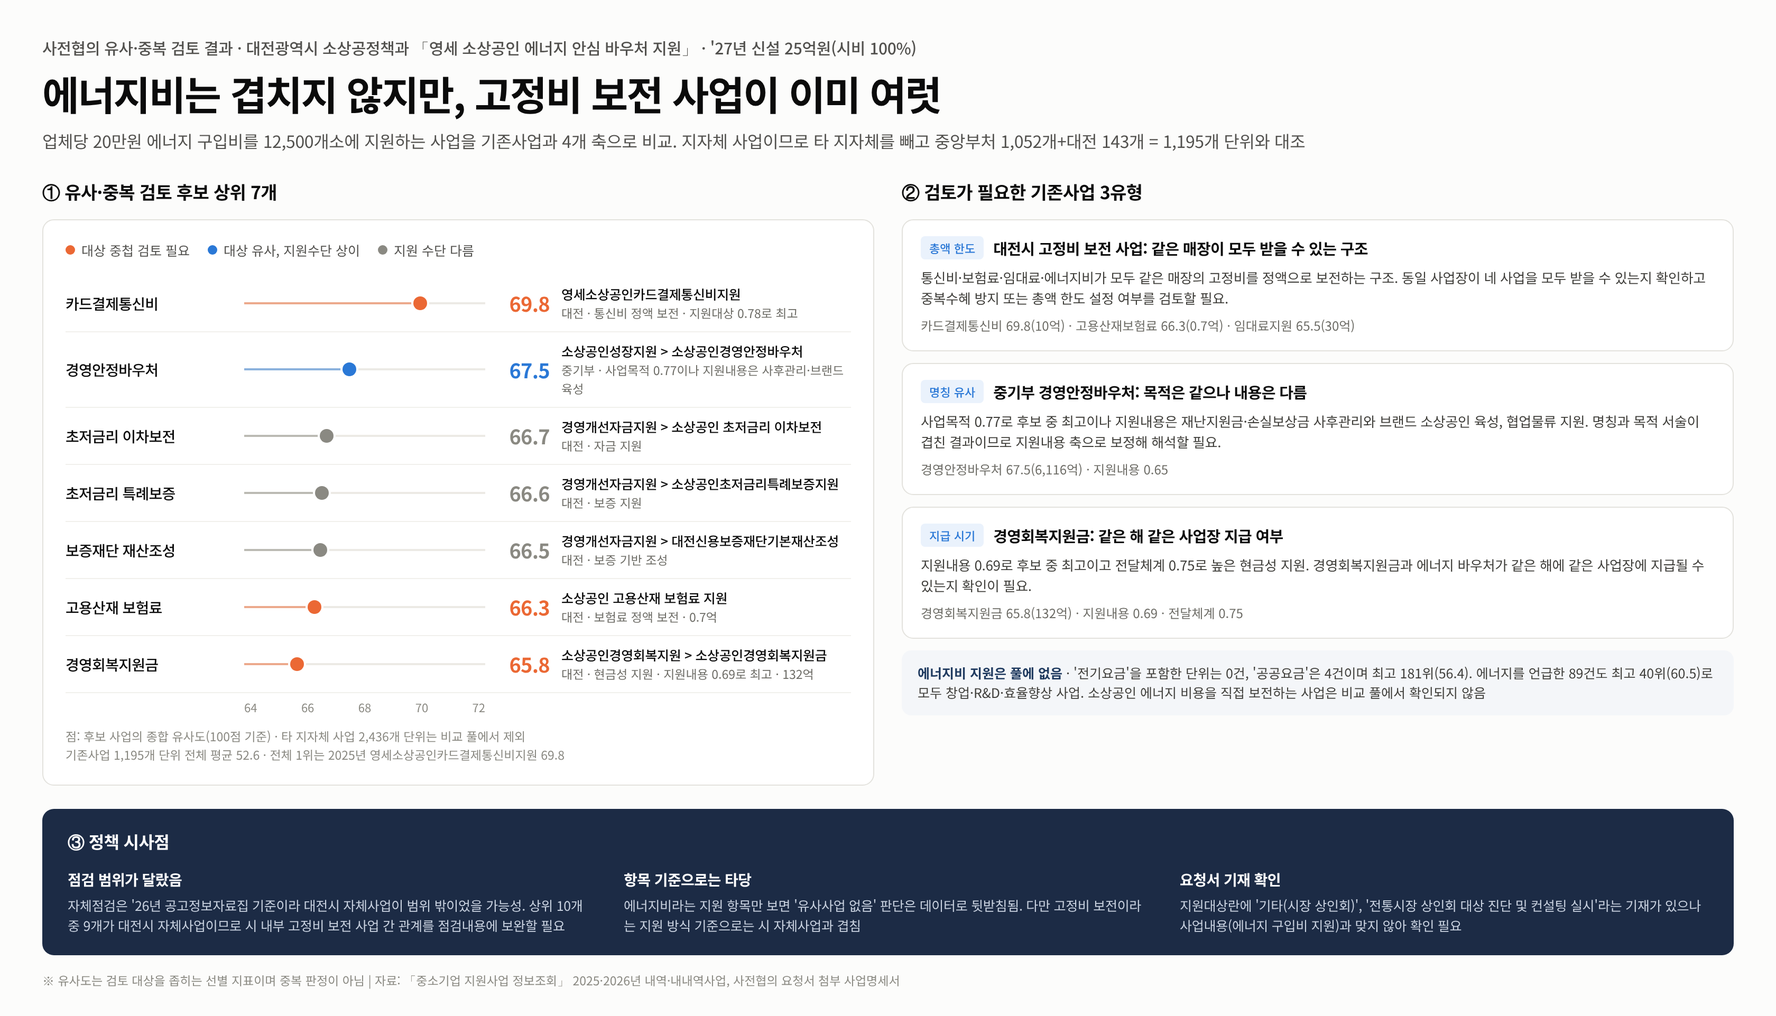
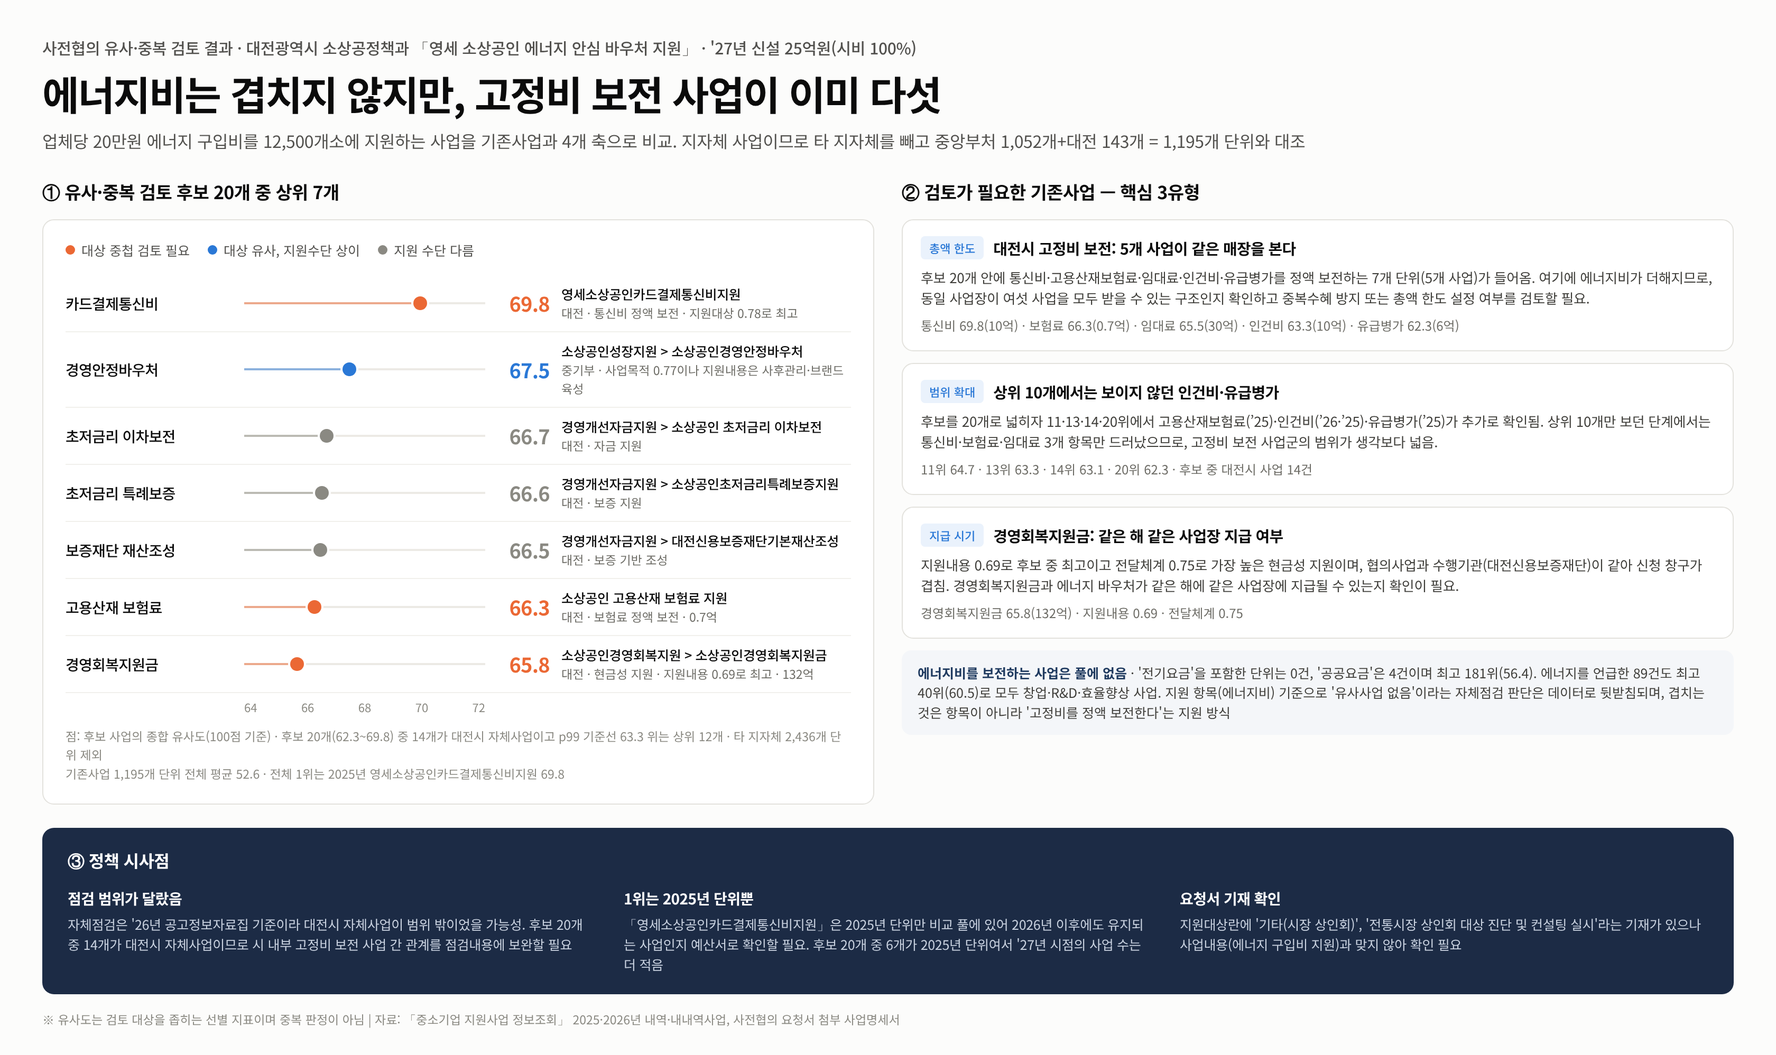
유사중복 분석: 「영세 소상공인 에너지 안심 바우처 지원」(대전) 후보 20개로 재작성
상위 10개 기준이던 검토보고서를 상위 20개 기준으로 다시 썼다. 같은 요청서·
같은 프로필·같은 임베딩 캐시로 재실행해 전체 1,195단위의 종합 유사도가
기존 순위표와 최대 오차 0.00000으로 일치함을 확인했고, 순위표 xlsx 는
전체 단위를 이미 담고 있어 교체하지 않았다.

11~20위에서 드러난 것
- 고정비 정액 보전 사업이 3개에서 5개로 늘었다. 상위 10개에서는 통신비·
  고용산재보험료·임대료만 보였으나, 11·13·14·20위에서 보험료('25)·
  인건비('26·'25)·유급병가('25)가 추가로 확인되어 7개 단위(5개 사업)가 됨.
  에너지비까지 더하면 같은 사업장이 여섯 사업을 받을 수 있는 구조
- 후보 20개 중 14개가 대전시 자체사업이고 상위 11개 중 10개가 자체사업

보고서
- 후보 표를 20행으로 확대(62.3~69.8). 모두 평균+2σ(60.2)를 넘으나 p99
  기준선(63.3) 위는 12개뿐이어서 13위부터는 기준선 아래임을 명시
- 유형을 3개에서 5개로 재구성해 후보 20개를 빠짐없이 배치
  ① 대전시 고정비 정액 보전(1·6·8·11·13·14·20위) ② 대전시 금융 지원
  (3~5·7·9위) ③ 중기부 소상공인 경영안정(2·12·16·17·19위)
  ④ 대전시 컨설팅·사업화(10·15위) ⑤ 중기부 소공인 판로(18위)
- 1위 「영세소상공인카드결제통신비지원」이 2025년 단위만 있어 2026년 이후
  유지 여부를 예산서로 확인해야 한다는 점을 유의사항에 추가
- 최댓값 69.8의 상대 위치를 분석 12건 기준(3번째)으로 갱신

그림·Word
- 헤드라인을 "고정비 보전 사업이 이미 다섯"으로 바꾸고 유형 카드 2번을
  후보 확대로 드러난 인건비·유급병가로 교체

보고서의 순위·점수·건수 119개를 xlsx 에서 다시 읽어 대조했다.

Claude-Session: https://claude.ai/code/session_01LJTzKx3FYESPdGRcAtLmdx

diff --git a/similarity/results/유사중복_검토_대전에너지바우처.md b/similarity/results/유사중복_검토_대전에너지바우처.md
@@ -1,12 +1,12 @@
 # 「영세 소상공인 에너지 안심 바우처 지원」 유사·중복 후보 분석 결과
 
 - 협의사업: 대전광역시 소상공정책과, ’27년 세부사업 신설 2,500백만원(시비 100%, 통계목 308-13), 12,500개소 × 200,000원, 자부담 없음, 수행 대전신용보증재단, 민선9기 공약
-- 분석일: 2026.11.4. / 분석도구: `similarity/similarity_check.py --region 대전`(BAAI/bge-m3, 4개 축 코사인 유사도 가중합)
+- 분석일: 2026.11.10.(후보 20개 기준 재작성, 산출값은 2026.11.4. 분석과 동일) / 분석도구: `similarity/similarity_check.py --region 대전`(BAAI/bge-m3, 4개 축 코사인 유사도 가중합)
 - 산출파일: `similarity/results/유사도_산출결과_대전에너지바우처.xlsx`(가중치·전체·공고매핑 시트), 프로필 `similarity/results/new_project_profile_대전에너지바우처.json`
 
 ## 1. 검토 개요
 
-□ 협의사업의 4개 축 서술을 2025·2026년 중소기업 지원 내역·내내역사업과 임베딩 유사도로 비교하여 유사·중복 검토 후보 10개를 선정
+□ 협의사업의 4개 축 서술을 2025·2026년 중소기업 지원 내역·내내역사업과 임베딩 유사도로 비교하여 유사·중복 검토 후보 20개를 선정
 
  ○ (협의사업 자료) 사전협의 요청서 별지 1·자체점검표와 첨부 사업명세서를 기본자료로 사용
   - 세부사업 신설이고 내역사업이 1개이므로 전체 단위 1개로 구성
@@ -26,44 +26,69 @@
 
   - 5단계 등급과 지표(안) 환산점수는 코퍼스 내 z-점수로 매긴 참고치이며, 순위의 근거는 종합 유사도
 
-## 2. 분석 결과: 유사·중복 검토 후보 10개
+## 2. 분석 결과: 유사·중복 검토 후보 20개
 
-□ 자체점검표는 "유사한 사업 없음"으로 기재하였으나, **대전시가 이미 영세 소상공인에게 고정비를 보전하는 사업을 여럿 운영**하고 있어 같은 기업의 중복수혜 가능성 확인이 핵심 검토사항
+□ 자체점검표는 "유사한 사업 없음"으로 기재하였으나, 대전시는 이미 **영세 소상공인의 고정비를 항목별로 정액 보전하는 사업을 5개 운영**하고 있어 같은 사업장의 중복수혜 가능성 확인이 핵심 검토사항
 
- ○ (분포) 비교 대상 1,195단위의 종합 유사도는 평균 52.59, 표준편차 3.80, 최댓값 69.84
-  - 평균+2σ(60.19)를 넘는 단위는 45건, 상위 1%(p99) 기준선은 63.33이며 후보 10개(64.98~69.84)는 모두 기준선 상회
-  - 1위(69.84)와 2위(67.49) 사이가 2.35점으로 크게 벌어져 1위를 별도 성격으로 분리해 보는 것이 타당
-  - 최댓값 69.84는 지금까지 분석한 협의사업 10건 중 두 번째로 높아, 비슷한 성격의 기존사업이 분명히 존재함을 뜻함
+ ○ (분포) 비교 대상 1,195단위의 종합 유사도는 평균 52.6, 표준편차 3.8, 최댓값 69.8
+  - 후보 20개(62.3~69.8)는 모두 평균+2σ(60.2)를 상회(해당 단위 45건)하나, 상위 1%(p99) 기준선 63.3을 넘는 단위는 12건이므로 **13위부터는 기준선 아래**에 위치
+  - 1위(69.8)와 2위(67.5) 사이가 **2.35점**, 11위(64.7)와 12위(63.6) 사이가 **1.14점**으로 벌어져 상위권이 세 층으로 갈림
+  * 1위 단독 / 2~11위(대전시 자체사업 9개 + 중기부 경영안정바우처) / 12~20위(0.01~0.36점 간격의 평평한 구간)
+  - 최댓값 69.8은 지금까지 분석한 협의사업 12건 중 세 번째로 높아, 비슷한 성격의 기존사업이 분명히 존재함을 뜻함
+
+ ○ (후보 구성) 후보 20개는 **20개 내역사업·14개 세부사업**에 속하고 모두 내역사업 단위(내내역 0건)
+  - 소관별로 대전광역시 14건, 중소벤처기업부 6건이며, 연도별로 2026년 14건, 2025년 6건
+  - 상위 11개 중 10개가 대전시 자체사업으로, **겹침은 중앙부처가 아니라 대전시 내부에 있음**
 
  | 순위 | 기존사업 단위(부처·수행기관) | 단위 | 시행방법 | 종합 유사도 | 사업목적 | 지원내용 | 지원대상 | 전달체계 | 지표(안) 환산점수 |
  |---|---|---|---|---|---|---|---|---|---|
- | 1 | 「영세소상공인카드결제통신비지원」(대전) | 내역 | 기타 | 69.8 | 0.66 | 0.66 | 0.78 | 0.66 | 82.1 |
- | 2 | 「소상공인성장지원 > 소상공인경영안정바우처」(중기부) | 내역 | 기관보조 | 67.5 | 0.77 | 0.65 | 0.67 | 0.60 | 78.9 |
- | 3 | 「경영개선자금지원 > 소상공인 초저금리 이차보전」(대전) | 내역 | 민간보조 | 66.7 | 0.60 | 0.64 | 0.70 | 0.74 | 72.6 |
- | 4 | 「경영개선자금지원 > 소상공인초저금리특례보증지원」(대전) | 내역 | 민간보조 | 66.6 | 0.60 | 0.64 | 0.70 | 0.73 | 72.6 |
- | 5 | 「경영개선자금지원 > 대전신용보증재단기본재산조성」(대전) | 내역 | 민간보조 | 66.5 | 0.60 | 0.64 | 0.70 | 0.73 | 72.6 |
- | 6 | 「소상공인 고용산재 보험료 지원」(대전) | 내역 | 기타 | 66.3 | 0.60 | 0.66 | 0.72 | 0.64 | 72.6 |
- | 7 | 「소상공인경영회복지원 > 소상공인경영회복지원금」(대전) | 내역 | — | 65.8 | 0.53 | 0.69 | 0.67 | 0.75 | 75.8 |
- | 8 | 「소상공인임대료지원」(대전) | 내역 | 기타 | 65.5 | 0.66 | 0.63 | 0.68 | 0.65 | 69.5 |
- | 9 | 「경영개선자금지원 > 소상공인초저금리특별자금」(대전) | 내역 | 민간보조 | 65.4 | 0.58 | 0.61 | 0.70 | 0.74 | 72.6 |
- | 10 | 「유망소상공인사업화지원」(대전) | 내역 | 직접수행 | 65.0 | 0.58 | 0.62 | 0.72 | 0.66 | 68.4 |
+ | 1 | 「영세소상공인카드결제통신비지원」(대전·대전일자리경제진흥원, ’25) | 내역 | 기타 | 69.8 | 0.66 | 0.66 | 0.78 | 0.66 | 82.1 |
+ | 2 | 「소상공인성장지원 > 소상공인경영안정바우처」(중기부·소상공인시장진흥공단 등) | 내역 | 기관보조 | 67.5 | 0.77 | 0.65 | 0.67 | 0.60 | 78.9 |
+ | 3 | 「경영개선자금지원 > 소상공인 초저금리 이차보전」(대전·대전신용보증재단) | 내역 | 민간보조 | 66.7 | 0.60 | 0.64 | 0.70 | 0.74 | 72.6 |
+ | 4 | 「경영개선자금지원 > 소상공인초저금리특례보증지원」(대전·대전신용보증재단) | 내역 | 민간보조 | 66.6 | 0.60 | 0.64 | 0.70 | 0.73 | 72.6 |
+ | 5 | 「경영개선자금지원 > 대전신용보증재단기본재산조성」(대전·대전신용보증재단) | 내역 | 민간보조 | 66.5 | 0.60 | 0.64 | 0.70 | 0.73 | 72.6 |
+ | 6 | 「소상공인 고용산재 보험료 지원」(대전·대전일자리경제진흥원) | 내역 | 기타 | 66.3 | 0.60 | 0.66 | 0.72 | 0.64 | 72.6 |
+ | 7 | 「소상공인경영회복지원 > 소상공인경영회복지원금」(대전·대전신용보증재단) | 내역 | — | 65.8 | 0.53 | 0.69 | 0.67 | 0.75 | 75.8 |
+ | 8 | 「소상공인임대료지원」(대전·대전일자리경제진흥원) | 내역 | 기타 | 65.5 | 0.66 | 0.63 | 0.68 | 0.65 | 69.5 |
+ | 9 | 「경영개선자금지원 > 소상공인초저금리특별자금」(대전·대전신용보증재단, ’25) | 내역 | 민간보조 | 65.4 | 0.58 | 0.61 | 0.70 | 0.74 | 72.6 |
+ | 10 | 「유망소상공인사업화지원」(대전·대전일자리경제진흥원) | 내역 | 직접수행 | 65.0 | 0.58 | 0.62 | 0.72 | 0.66 | 68.4 |
+ | 11 | 「영세자영업자고용산재보험료지원」(대전·대전일자리경제진흥원, ’25) | 내역 | 기타 | 64.7 | 0.58 | 0.63 | 0.71 | 0.65 | 64.2 |
+ | 12 | 「소상공인성장지원 > 소상공인역량강화」(중기부·소상공인시장진흥공단 등) | 내역 | 기관보조 | 63.6 | 0.61 | 0.66 | 0.64 | 0.61 | 60.0 |
+ | 13 | 「소상공인 인건비 지원」(대전·대전일자리경제진흥원) | 내역 | 기타 | 63.3 | 0.65 | 0.59 | 0.65 | 0.65 | 52.6 |
+ | 14 | 「영세자영업자인건비지원」(대전·대전일자리경제진흥원, ’25) | 내역 | 기타 | 63.1 | 0.63 | 0.60 | 0.65 | 0.65 | 61.1 |
+ | 15 | 「자영업닥터제운영」(대전·대전일자리경제진흥원) | 내역 | 기타 | 62.8 | 0.52 | 0.62 | 0.69 | 0.67 | 63.2 |
+ | 16 | 「소상공인지원(융자) > 일반경영안정자금」(중기부·소상공인시장진흥공단) | 내역 | 융자 | 62.7 | 0.64 | 0.68 | 0.59 | 0.60 | 56.8 |
+ | 17 | 「소상공인지원(융자) > 특별경영안정자금」(중기부·소상공인시장진흥공단) | 내역 | 융자 | 62.4 | 0.62 | 0.67 | 0.60 | 0.59 | 56.8 |
+ | 18 | 「소공인특화지원 > 판로개척지원」(중기부·소상공인시장진흥공단 등) | 내역 | 보조(50%) | 62.4 | 0.63 | 0.64 | 0.61 | 0.61 | 61.1 |
+ | 19 | 「소상공인성장지원 > 소상공인협업활성화」(중기부·소상공인시장진흥공단 등, ’25) | 내역 | 보조(70%) | 62.3 | 0.64 | 0.69 | 0.58 | 0.57 | 56.8 |
+ | 20 | 「대전형유급병가지원사업」(대전·대전일자리경제진흥원, ’25) | 내역 | 직접수행 | 62.3 | 0.63 | 0.52 | 0.70 | 0.66 | 58.9 |
 
- - 후보 10개는 7개 세부사업에 속하므로 실제 검토 대상 사업 수는 10개보다 적음(「경영개선자금지원」 4개 단위)
+ ○ (유형 1: 대전시 고정비 정액 보전 — 1·6·8·11·13·14·20위) 같은 영세 소상공인에게 **고정비 항목을 정액으로 보전**하는 구조가 협의사업과 같아 중복수혜 가능성이 가장 높음
+  - 7개 단위는 **5개 사업**에 해당함: 통신비(1위, 1,000백만원)·고용산재보험료(6·11위, 70~80백만원)·임대료(8위, 3,000백만원)·인건비(13·14위, 각 1,000백만원)·유급병가(20위, 600백만원)
+  - 보험료·인건비·유급병가는 2025·2026년 단위가 함께 들어와 같은 사업이 두 번 계산됨(’25년 「영세자영업자…」가 ’26년 「소상공인 …」으로 명칭 변경)
+  - 1위 「영세소상공인카드결제통신비지원」은 **지원대상 축 0.78로 후보 20개 중 최고**이며 2위와 2.35점 차로 단독 선두
+  * 통신비·보험료·임대료·인건비·유급병가·에너지비가 모두 같은 매장의 고정비이므로, **동일 사업장이 여섯 사업을 모두 받을 수 있는 구조인지 확인하고 중복수혜 방지 또는 총액 한도 설정 여부를 검토할 필요**
+  * 상위 10개만 보던 단계에서는 통신비·보험료·임대료 3개만 보였으나, 20개로 넓히자 **인건비와 유급병가가 추가로 확인**되어 고정비 보전 사업군의 범위가 넓어짐
 
- ○ (유형 1: 대전시 고정비 보전 사업 — 1·6·8위) 같은 영세 소상공인에게 **고정비를 정액으로 보전**하는 구조가 동일하여 중복수혜 가능성이 가장 높음
-  - 「영세소상공인카드결제통신비지원」(1,000백만원)은 지원대상 축 0.78로 후보 중 최고이며 카드결제 통신비를 보전
-  - 「소상공인 고용산재 보험료 지원」(70백만원)은 보험료를, 「소상공인임대료지원」(3,000백만원)은 임대료를 보전
-  * 통신비·보험료·임대료·에너지비가 모두 같은 매장의 고정비이므로, **동일 사업장이 네 사업을 모두 받을 수 있는 구조인지 확인하고 중복수혜 방지 또는 총액 한도 설정 여부를 검토할 필요**
+ ○ (유형 2: 대전시 금융 지원 — 3~5·7·9위) 같은 대전신용보증재단이 수행하며 **전달체계 축이 0.73~0.75로 후보 중 최고**
+  - 「경영개선자금지원」 4개 내역(이차보전 36,000백만원·특례보증 5,000·기본재산조성 1,000·특별자금 32,900)은 이차보전과 보증으로 수단이 다름
+  - 「소상공인경영회복지원금」(13,200백만원)은 **지원내용 축 0.69로 후보 중 최고**이고 전달체계도 0.75로 가장 높아, 현금성 지원이라는 점에서 협의사업과 가장 가까움
+  * 협의사업의 수행기관이 같은 대전신용보증재단이므로 신청 창구가 겹치며, 경영회복지원금과 에너지 바우처가 같은 해 같은 사업장에 지급될 수 있는지 확인이 필요
 
- ○ (유형 2: 중기부 소상공인 경영안정 지원 — 2위) 「소상공인경영안정바우처」(지원규모 611,593백만원)는 사업목적 축 0.77로 후보 중 최고
-  - 명칭과 사업목적이 경영안정 바우처로 협의사업과 같은 방향이나, 지원내용은 재난지원금·손실보상금 사후관리와 브랜드 소상공인 육성, 협업물류 지원으로 구성되어 에너지비 보전과 다름
-  * 사업목적 축이 높은 것은 '소상공인 경영안정'이라는 서술이 겹치기 때문이므로, 지원내용 축으로 보정해 해석할 필요
+ ○ (유형 3: 중기부 소상공인 경영안정 — 2·12·16·17·19위) 후보 중 유일한 국비 사업군으로, 지원 규모가 협의사업의 수백 배
+  - 2위 「소상공인경영안정바우처」(지원규모 611,593백만원)는 **사업목적 축 0.77로 후보 중 최고**이나, 지원내용은 재난지원금·손실보상금 사후관리와 브랜드 소상공인 육성, 협업물류 지원으로 구성되어 에너지비 보전과 다름
+  - 「소상공인지원(융자)」 2개 내역(16·17위, 지원규모 3,362,000백만원)은 융자여서 전달체계 축이 0.59~0.60으로 낮음
+  - 「소상공인역량강화」(12위)·「소상공인협업활성화」(19위)는 교육·협업 지원으로 지원대상 축이 0.58~0.64로 낮음
+  * 2위의 사업목적 축이 높은 것은 '소상공인 경영안정'이라는 서술이 겹치기 때문이므로 지원내용 축으로 보정해 해석해야 하며, 국비 사업과의 관계는 중복수혜보다 **연계** 관점이 적절
 
- ○ (유형 3: 대전시 금융·사업화 지원 — 3~5·7·9·10위) 이차보전·특례보증·경영회복지원금·사업화 지원으로 수단이 다름
-  - 「소상공인경영회복지원금」(13,200백만원)은 지원내용 축 0.69로 후보 중 최고이고 전달체계도 0.75로 높아, 현금성 지원이라는 점에서 협의사업과 가장 가까운 금융 지원
-  * 경영회복지원금과 에너지 바우처가 같은 해에 같은 사업장에 지급될 수 있는지 확인이 필요
+ ○ (유형 4: 대전시 컨설팅·사업화 — 10·15위) 현금 보전이 아니라 역량을 지원하는 대전시 자체사업
+  - 「유망소상공인사업화지원」(200백만원)은 지원대상 축 0.72로 높으나 사업화 자금을 지원하고, 「자영업닥터제운영」(1,500백만원)은 컨설팅을 제공
+  * 대상은 겹치나 지원 수단이 달라 중복수혜 대상이 아니며, 대상 요건 중복 여부만 확인하면 되는 참고 후보
 
- ○ (에너지 비용 지원 사업의 희소성) 비교 풀에서 에너지·공공요금 보전을 직접 다루는 사업은 상위권에 없음
+ ○ (유형 5: 중기부 소공인 판로 — 18위) 「소공인특화지원 > 판로개척지원」(지원규모 135,261백만원)은 소공인 판로를 지원하여 네 축이 모두 0.61~0.64의 중간값
+  * 지원 항목이 달라 중복 가능성은 낮고, 후보 하한에 걸친 참고 후보
+
+ ○ (에너지 비용 지원 사업의 희소성) 비교 풀에서 에너지·공공요금 보전을 직접 다루는 사업은 후보 20개에 없음
   - '전기요금'을 포함한 단위는 0건, '공공요금'은 4건이며 최고 181위(56.4)
   - 에너지를 언급한 89건 중 최고는 40위(60.5)이나 모두 창업·R&D·효율향상 사업으로 비용 보전과 무관
   * 소상공인 에너지 비용을 직접 보전하는 사업은 본 비교 풀에서 확인되지 않으므로, 자체점검의 "유사사업 없음" 판단은 **에너지비라는 지원 항목 기준으로는 타당**
@@ -74,7 +99,7 @@
 
  ○ (자체점검 기재) "협의사업은 영세 소상공인의 고유가 위기 극복을 위한 바우처 지원 사업으로, 지원분야에 대한 사업과 비교점검을 실시하였으나 협의사업과 지원대상, 지원내용이 유사한 사업은 없음"
   - 비교 범위가 ’26년 공고정보자료집이므로 대전시 자체사업은 점검 범위 밖이었을 가능성이 높음
- ○ (본 분석 결과) 상위 10개 중 9개가 대전광역시 자체사업이며, 그중 3개는 고정비를 정액 보전하는 같은 구조
+ ○ (본 분석 결과) 후보 20개 중 14개가 대전광역시 자체사업이며, 그중 7개(5개 사업)는 고정비를 정액 보전하는 같은 구조
   * 중복수혜 방지방안을 마련하여 제출하라는 안내 문구에 비추어, 대전시 내부 고정비 보전 사업 간 관계를 점검내용에 보완할 필요
  ○ (서식 확인 필요) 요청서 지원대상란에 "기타(시장 상인회)", "전통시장 상인회 대상 진단 및 컨설팅 실시"라는 기재가 있으나 사업내용(에너지 구입비 지원)과 맞지 않음
   * 다른 사업의 기재가 섞인 것으로 보이므로 확인이 필요
@@ -83,9 +108,16 @@
 
 □ 본 결과는 정성 검토 대상을 좁히기 위한 선별 지표이며 중복 여부를 판정한 것이 아님
 
- ○ (지원대상 축의 해석) 대전시 소상공인 사업은 모두 '관내 소상공인'을 대상으로 하여 지원대상 축이 0.67~0.78로 높게 묶이므로, 이 축만으로 중복을 판단하지 않아야 함
+ ○ (지원대상 축의 해석) 대전시 소상공인 사업은 모두 '관내 소상공인'을 대상으로 하여 지원대상 축이 0.65~0.78로 높게 묶이므로, 이 축만으로 중복을 판단하지 않아야 함
 
  ○ (사업목적 축의 해석) 2위 「소상공인경영안정바우처」의 사업목적 0.77은 '소상공인 경영안정'이라는 서술이 겹친 결과이며 지원 항목이 같다는 뜻이 아님
+
+ ○ (연도 단위의 해석) 후보 20개 중 6개가 2025년 단위이므로 ’27년 시점의 사업 수는 더 적음
+  - 1위 「영세소상공인카드결제통신비지원」은 2025년 단위만 비교 풀에 있어 **2026년 이후에도 유지되는 사업인지 예산서로 확인할 필요**
+  - 20위 「대전형유급병가지원사업」은 2026년 단위(450백만원)도 있으며 30위(61.3)에 위치
+
+ ○ (후보 20개의 해석) 13~20위는 p99 기준선(63.3) 아래이고 17~20위가 0.01~0.09점 간격에 몰려 있어 순위 차이를 유의한 차이로 보기 어려움
+  - 상위 12개와 같은 무게로 다루지 말고, 유형별 겹침 구조를 근거로 삼아야 함
 
  ○ (풀에 없는 사업 유형) 대전광역시 소관 143개 단위는 비교 풀에 있으나 타 지자체 사업은 규칙에 따라 제외되었고, 기초자치단체(구) 자체사업과 예산서 밖 사업은 포함되지 않음
   - 에너지 비용 지원은 복지·에너지 분야 사업으로 편성되는 경우가 있어 중소기업 지원사업 자료에 잡히지 않을 수 있음
